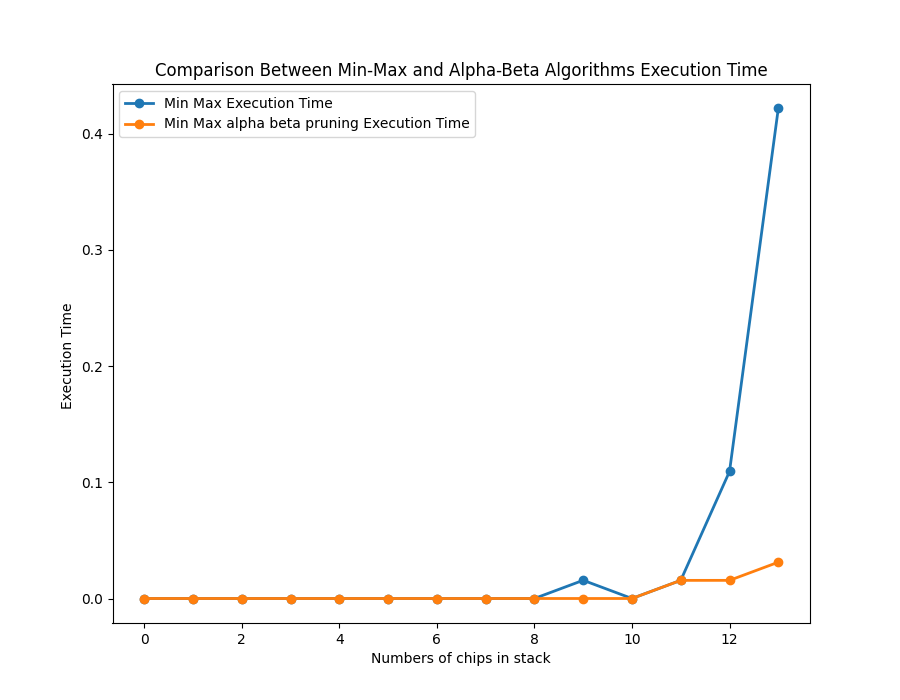
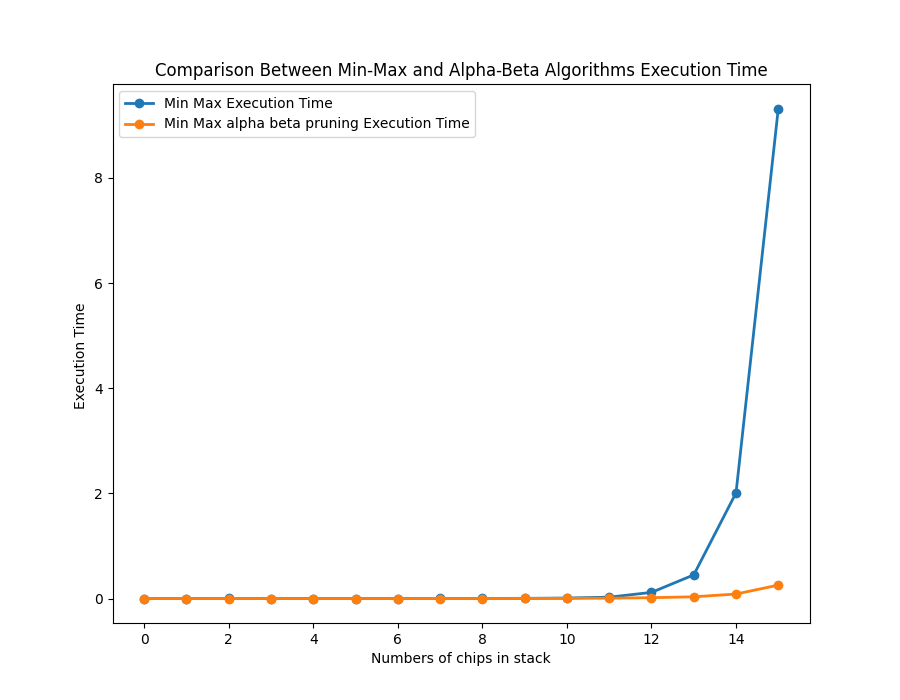
refactor code

diff --git a/Game.py b/Game.py
@@ -76,12 +76,12 @@ class Game:
         # -1 - loss
         # 1  - win
         if result == 'Min':
-            return (1, 0, 0,1)
+            return (1, 0, 0, 1)
         elif result == 'Max':
-            return (-1, 0, 0,1)
+            return (-1, 0, 0, 1)
         # we will loop on the current stack chips
         stack_before = copy.deepcopy(self.current_state)
-        visited_nodes=0
+        visited_nodes = 0
         for i in range(0, len(self.current_state)):
             # test if the chips is greater than two then we can still devid it
             if self.current_state[i] > 2:
@@ -89,14 +89,14 @@ class Game:
                 for sum in sum_list:
                     # here sum is a list composed of the two numbers in the sum of current number for exple 7 => [6,1]
                     self.explode_stack(i, sum)
-                    (m, min_i, min_j,child_visited_nodes) = self.min()
-                    visited_nodes=visited_nodes+child_visited_nodes+1
+                    (m, min_i, min_j, child_visited_nodes) = self.min()
+                    visited_nodes = visited_nodes + child_visited_nodes + 1
                     if m > maxv:
                         maxv = m
                         index = i
                         sum_result = sum
                     self.current_state = stack_before[:]
-        return (maxv, index, sum_result,visited_nodes)
+        return (maxv, index, sum_result, visited_nodes)
 
     def min(self):
 
@@ -117,13 +117,13 @@ class Game:
         # -1 - loss
         # 1  - win
         if result == 'Min':
-            return (1, 0, 0,1)
+            return (1, 0, 0, 1)
         elif result == 'Max':
-            return (-1, 0, 0,1)
+            return (-1, 0, 0, 1)
         self.player_turn = 'Min'
         # we will loop on the current stack chips
         stack_before = copy.deepcopy(self.current_state)
-        visited_nodes=0
+        visited_nodes = 0
         for i in range(0, len(self.current_state)):
             # test if the chips is greater than two then we can still divide it
             if self.current_state[i] > 2:
@@ -131,14 +131,14 @@ class Game:
                 for sum in sum_list:
                     # here sum is a list composed of the two numbers in the sum of current number for exple 7 => [6,1]
                     self.explode_stack(i, sum)
-                    (m, max_index, max_sum,child_visited_nodes) = self.max()
-                    visited_nodes=visited_nodes+child_visited_nodes+1
+                    (m, max_index, max_sum, child_visited_nodes) = self.max()
+                    visited_nodes = visited_nodes + child_visited_nodes + 1
                     if m < minv:
                         minv = m
                         index = i
                         sum_result = sum
                     self.current_state = stack_before[:]
-        return (minv, index, sum_result,visited_nodes)
+        return (minv, index, sum_result, visited_nodes)
 
     def max_alpha_beta_pruning(self, alpha, beta):
 
@@ -159,12 +159,12 @@ class Game:
         # -1 - loss
         # 1  - win
         if result == 'Min':
-            return (1, 0, 0,1)
+            return (1, 0, 0, 1)
         elif result == 'Max':
-            return (-1, 0, 0,1)
+            return (-1, 0, 0, 1)
         # we will loop on the current stack chips
         stack_before = copy.deepcopy(self.current_state)
-        visited_nodes=0
+        visited_nodes = 0
         for i in range(0, len(self.current_state)):
             # test if the chips is greater than two then we can still devid it
             if self.current_state[i] > 2:
@@ -172,8 +172,8 @@ class Game:
                 for sum in sum_list:
                     # here sum is a list composed of the two numbers in the sum of current number for exple 7 => [6,1]
                     self.explode_stack(i, sum)
-                    (m, min_i, min_j,child_visied_nodes) = self.min_alpha_beta_pruning(alpha, beta)
-                    visited_nodes=visited_nodes+child_visied_nodes+1
+                    (m, min_i, min_j, child_visied_nodes) = self.min_alpha_beta_pruning(alpha, beta)
+                    visited_nodes = visited_nodes + child_visied_nodes + 1
                     if m > maxv:
                         maxv = m
                         index = i
@@ -181,11 +181,11 @@ class Game:
                     self.current_state = stack_before[:]
                     # the only diff with the normal max
                     if maxv >= beta:
-                        return (maxv, index, sum_result,visited_nodes)
+                        return (maxv, index, sum_result, visited_nodes)
 
                     if maxv > alpha:
                         alpha = maxv
-        return (maxv, index, sum_result,visited_nodes)
+        return (maxv, index, sum_result, visited_nodes)
 
     def min_alpha_beta_pruning(self, alpha, beta):
 
@@ -206,13 +206,13 @@ class Game:
         # -1 - loss
         # 1  - win
         if result == 'Min':
-            return (1, -1, [],1)
+            return (1, -1, [], 1)
         elif result == 'Max':
-            return (-1, -1, [],1)
+            return (-1, -1, [], 1)
         self.player_turn = 'Min'
         # we will loop on the current stack chips
         stack_before = copy.deepcopy(self.current_state)
-        visited_nodes=0
+        visited_nodes = 0
         for i in range(0, len(self.current_state)):
             # test if the chips is greater than two then we can still divide it
             if self.current_state[i] > 2:
@@ -220,8 +220,8 @@ class Game:
                 for sum in sum_list:
                     # here sum is a list composed of the two numbers in the sum of current number for exple 7 => [6,1]
                     self.explode_stack(i, sum)
-                    (m, max_index, max_sum,child_visited_nodes) = self.max_alpha_beta_pruning(alpha, beta)
-                    visited_nodes=visited_nodes+child_visited_nodes+1
+                    (m, max_index, max_sum, child_visited_nodes) = self.max_alpha_beta_pruning(alpha, beta)
+                    visited_nodes = visited_nodes + child_visited_nodes + 1
                     if m < minv:
                         minv = m
                         index = i
@@ -229,11 +229,11 @@ class Game:
                     self.current_state = stack_before[:]
                     # The only diff with normal min
                     if minv <= alpha:
-                        return (minv, index, sum_result,visited_nodes)
+                        return (minv, index, sum_result, visited_nodes)
 
                     if minv < beta:
                         beta = minv
-        return (minv, index, sum_result,visited_nodes)
+        return (minv, index, sum_result, visited_nodes)
 
     def play(self):
         while True:
@@ -256,7 +256,7 @@ class Game:
                 while True:
 
                     start = time.time()
-                    (m, index, sum,visited_nodes) = self.min()
+                    (m, index, sum, visited_nodes) = self.min()
                     end = time.time()
                     print('Evaluation time: {}s'.format(round(end - start, 7)))
                     print('Recommended move: Stack Index = {}, Sum = {}'.format(index, sum))
@@ -276,7 +276,7 @@ class Game:
 
             # If it's AI's turn
             else:
-                (m, index, sum,visited_nodes) = self.max()
+                (m, index, sum, visited_nodes) = self.max()
                 self.explode_stack(index, sum)
                 self.result = self.is_end()
                 self.player_turn = 'Min'
@@ -302,7 +302,7 @@ class Game:
                 while True:
 
                     start = time.time()
-                    (m, index, sum,visited_nodes) = self.min_alpha_beta_pruning(-2, 2)
+                    (m, index, sum, visited_nodes) = self.min_alpha_beta_pruning(-2, 2)
                     end = time.time()
                     print('Evaluation time: {}s'.format(round(end - start, 7)))
                     print('Recommended move: Stack Index = {}, Sum = {}'.format(index, sum))
@@ -322,7 +322,7 @@ class Game:
 
             # If it's AI's turn
             else:
-                (m, index, sum,visited_nodes) = self.max_alpha_beta_pruning(-2, 2)
+                (m, index, sum, visited_nodes) = self.max_alpha_beta_pruning(-2, 2)
                 self.explode_stack(index, sum)
                 self.result = self.is_end()
                 self.player_turn = 'Min'
@@ -346,25 +346,25 @@ class Game:
             if self.player_turn == 'Min':
                 start = time.time()
                 if pruning:
-                    (m, index, sum,visited_nodes) = self.min_alpha_beta_pruning(-2, 2)
+                    (m, index, sum, visited_nodes) = self.min_alpha_beta_pruning(-2, 2)
                 else:
-                    (m, index, sum,visited_nodes) = self.min()
+                    (m, index, sum, visited_nodes) = self.min()
                 end = time.time()
                 self.explode_stack(index, sum)
                 self.player_turn = 'Max'
             # If it's AI's turn
             else:
                 if pruning:
-                    (m, index, sum,visited_nodes) = self.max_alpha_beta_pruning(-2, 2)
+                    (m, index, sum, visited_nodes) = self.max_alpha_beta_pruning(-2, 2)
                 else:
-                    (m, index, sum,visited_nodes) = self.max()
+                    (m, index, sum, visited_nodes) = self.max()
                 self.explode_stack(index, sum)
                 self.result = self.is_end()
                 self.player_turn = 'Min'
 
-    def max_visited_nodes(self,pruning):
-        if(pruning):
-            (max, index, sum, visited_nodes) = self.max_alpha_beta_pruning(-2,2)
+    def max_visited_nodes(self, pruning):
+        if (pruning):
+            (max, index, sum, visited_nodes) = self.max_alpha_beta_pruning(-2, 2)
         else:
             (max, index, sum, visited_nodes) = self.max()
         return visited_nodes

diff --git a/main.py b/main.py
@@ -3,6 +3,7 @@ import time
 import pandas as pd
 import matplotlib.pyplot as plt
 
+
 def plot_algorithms_execution_results(minmax_result, pruning_result):
     comp_list = [[minmax_result[i], pruning_result[i]] for i in range(len(minmax_result))]
     comp_df = pd.DataFrame(comp_list, columns=['minmax', 'pruning'])
@@ -21,6 +22,8 @@ def plot_algorithms_execution_results(minmax_result, pruning_result):
     plt.legend()
     plt.savefig('./algo_comp_time.png')
     plt.show()
+
+
 def plot_algorithms_visited_nodes_results(minmax_result, pruning_result):
     comp_list = [[minmax_result[i], pruning_result[i]] for i in range(len(minmax_result))]
     comp_df = pd.DataFrame(comp_list, columns=['minmax', 'pruning'])
@@ -37,8 +40,10 @@ def plot_algorithms_visited_nodes_results(minmax_result, pruning_result):
     ax.set_ylabel('Visited nodes')
     plt.title('Comparison Between Min-Max and Alpha-Beta Algorithms Visited Nodes')
     plt.legend()
-    plt.savefig('./heuristics_comp_visited_nodes.png')
+    plt.savefig('./algo_comp_visited_nodes.png')
     plt.show()
+
+
 def compare_algorithms(n):
     minmax_time = []
     pruning_time = []
@@ -56,20 +61,23 @@ def compare_algorithms(n):
         print('Simulation time: {}s'.format(round(end - start, 10)))
     plot_algorithms_execution_results(minmax_time, pruning_time)
 
+
 def compare_algorithms_visited_nodes(n):
     minmax_exec = []
     pruning_exec = []
     for i in range(1, n):
         g = Game(i)
-        visited=g.max_visited_nodes(True)
+        visited = g.max_visited_nodes(True)
         minmax_exec.append(visited)
         g = Game(i)
-        visited1=g.max_visited_nodes(False)
+        visited1 = g.max_visited_nodes(False)
         pruning_exec.append(visited1)
     plot_algorithms_visited_nodes_results(minmax_exec, pruning_exec)
+
+
 if __name__ == '__main__':
     chips = int(input('insert initial chips number'))
-    g=Game(chips)
+    g = Game(chips)
     g.play()
     ###########Pour une partie avec elagage#############
     # chips = int(input('insert initial chips number'))
@@ -80,5 +88,5 @@ if __name__ == '__main__':
     # compare_algorithms_visited_nodes(15)
     ####################################################
     ###########Pour une Simulation Temps execution#############
-    # compare_algorithms(15)
+    # compare_algorithms(17)
     ####################################################
